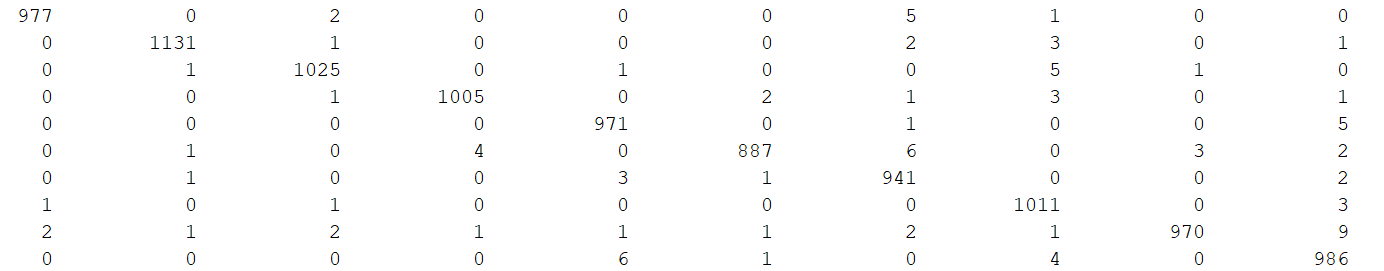
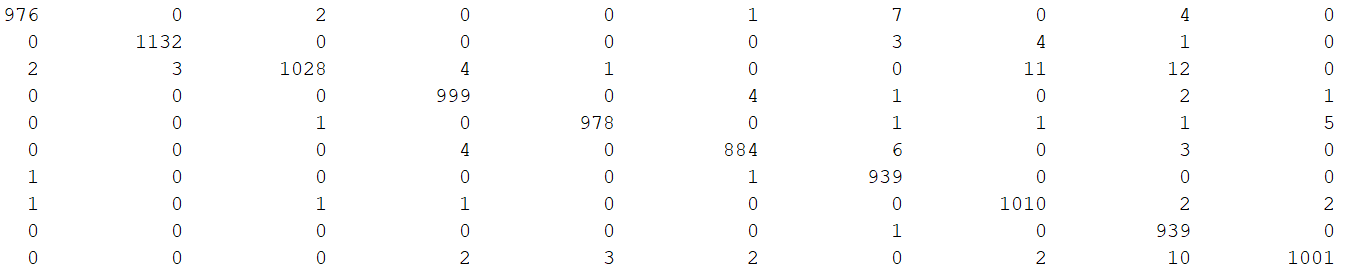
Aligning network more closely with CIFAR10 Network

diff --git a/5/Homework5_Sowatzke.m b/5/Homework5_Sowatzke.m
@@ -36,24 +36,16 @@ middleLayers = [
     % Next add the ReLU layer:
     reluLayer()
 
-    % Follow it with a max pooling layer that has a 2x2 spatial
-    % pooling area and a stride of 2 pixels. This down-samples the
-    % data dimensions from 28x28 to 14x14
+    % Follow it with a max pooling layer that has a 3x3 spatial pooling area
+    % and a stride of 2 pixels. This down-samples the data dimensions from
+    % 28x28 to 14x14.
     maxPooling2dLayer(2, 'Stride', 2)
 
-    % Add a convolution layer with a symmetric padding of 3 pixels.
-    % The output of this layer is 16x16. Adding an additional pixel
-    % of symmetric padding to make the layer output a power of 2
-    convolution2dLayer(filterSize, numFilters, 'Padding', 3)
-
-    % Add another ReLU layer
+    % Repeat the 3 core layers to complete the middle of the network.
+    convolution2dLayer(filterSize, numFilters, 'Padding', 2)
     reluLayer()
-
-    % Add a max pooling layer to down-sample the data dimensions
-    % from 16x16 to 8x8
     maxPooling2dLayer(2, 'Stride', 2)
 
-    % Repeat the first layers twice to get an 2x2 output layer
     convolution2dLayer(filterSize, 2 * numFilters, 'Padding', 2)
     reluLayer()
     maxPooling2dLayer(2, 'Stride', 2)
@@ -96,7 +88,9 @@ layers = [
     finalLayers
 ];
 
-% Set the network training options
+% Set the network training options. Note that MaxEpochs has been
+% reduced from 50 to 5 to speed up runtime. The network converges
+% quickly so this has little effect on the final results.
 opts = trainingOptions('adam', ...
     'InitialLearnRate', 1e-3, ...
     'LearnRateSchedule', 'piecewise', ...

diff --git a/5/Homework5_Sowatzke.tex b/5/Homework5_Sowatzke.tex
@@ -138,7 +138,7 @@
 		
 		\pagebreak
 		
-		When evaluated on the test data set, the CNN classifier achieved 99.04\% accuracy. The CNN classification results are displayed in the following confusion matrix:
+		When evaluated on the test data set, the CNN classifier achieved 98.86\% accuracy. The CNN classification results are displayed in the following confusion matrix:
 		
 		\begin{figure}[H]
 			\centerline{\fbox{\includegraphics[width=0.95\textwidth]{cnn_confusion_matrix.png}}}
